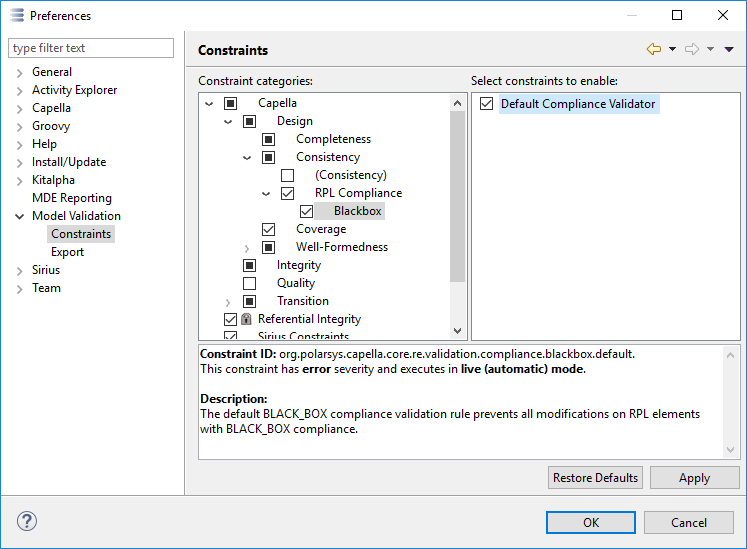
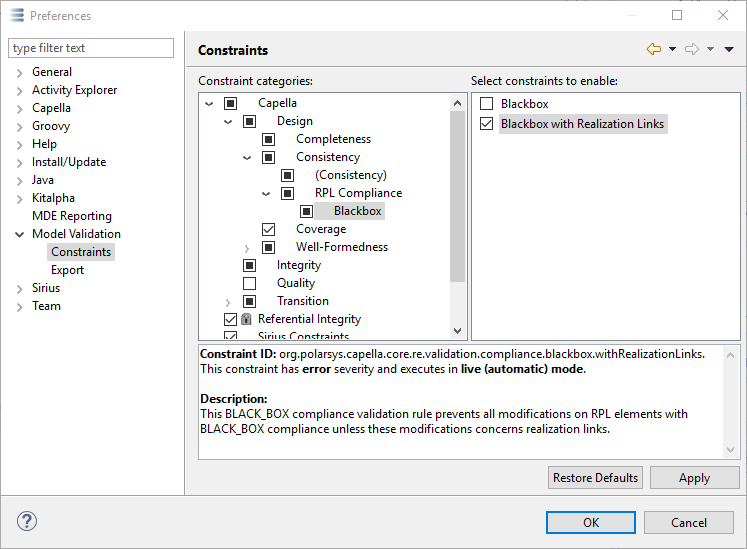
[1743] A Blackbox validation rule which allows adding realization links
This adds a second live validation rule for BlackBox REC/RPL compliance
which permits addition of realization links on RPL elements.

diff --git a/doc/plugins/org.polarsys.capella.re.doc/html/08. Replicable Element (REC-RPL)/8.5. RPL Validation.html b/doc/plugins/org.polarsys.capella.re.doc/html/08. Replicable Element (REC-RPL)/8.5. RPL Validation.html
@@ -23,11 +23,11 @@
 		<ul>
 			<li>Inheritance: Any element can be added in the RPL, including new 	Interfaces, ports or functions</li>
 		</ul>
-		<p>Capella currently provides a live validation rule for RPL with Blackbox compliance. The rule is deactivated by default. To enable live validation of RPL with Blackbox compliance, activate the rule in the Capella Preferences:</p>
+		<p>Capella currently provides two different live validation rules for RPL with Blackbox compliance. One rule prevents all modifications on the RPL, the other rule prevents all modifications, unless these modifications are concerning realization links. Both rules are deactivated by default. At most one compliance validation rule per compliancy definition should be active at any time. To enable live validation of RPL with Blackbox compliance, activate one of the two provided rules in the Capella Preferences:</p>
 		<p>
 			<img height="549" width="747" border="0" src="Images/8.5.enable_blackbox_rule.png"/>
 		</p>
-		<p>If the Blackbox validation rule is active, live validation will occur on all RPL which have the 'Enfore RPL Compliance on the Fly' flag checked in its properties. This flag makes it possible to enable validation for specific RPL only:</p>
+		<p>If a Blackbox validation rule is active, live validation will occur on all RPL which have the 'Enfore RPL Compliance on the Fly' flag checked in its properties. This flag makes it possible to enable validation for specific RPL only:</p>
 		<p>
 			<img height="368" width="495" border="0" src="Images/8.5.rplproperties.png"/>
 		</p>

diff --git a/core/plugins/org.polarsys.capella.core.re.validation/src/org/polarsys/capella/core/re/validation/design/consistency/AbstractComplianceConstraint.java b/core/plugins/org.polarsys.capella.core.re.validation/src/org/polarsys/capella/core/re/validation/design/consistency/AbstractComplianceConstraint.java
@@ -233,27 +233,29 @@ public abstract class AbstractComplianceConstraint extends AbstractValidationRul
             if (vc.getFeature().isMany()) {
 
               if (add && !((Collection<?>)ctx.getRecElement().eGet(vc.getFeature())).contains(vRec)){
-                return ctx.createFailureStatus();
+                return validateAddReference(ctx, vRpl, vRec);
               }
 
               if (remove && ((Collection<?>)ctx.getRecElement().eGet(vc.getFeature())).contains(vRec)){
-                return ctx.createFailureStatus();
+                return validateRemoveReference(ctx, vRpl, vRec);
               }
 
             } else {
 
-              if ((ctx.getRecElement().eGet(vc.getFeature()) != vRec)) {
-                return ctx.createFailureStatus();
+              if (ctx.getRecElement().eGet(vc.getFeature()) != vRec) {
+                validateDifferentReference(ctx, vRpl, vRec);
               }
 
             }
           } else {
 
             // the added/removed vRpl is part of this context rpl, but we cannot find a corresponding vRec
+            if (add ) {
+              return validateAddReference(ctx, vRpl, vRec);
+            }
 
-            // adding such an element is not allowed, removing is
-            if (add) {
-              return ctx.createFailureStatus();
+            if (set) {
+              return validateDifferentReference(ctx, vRpl, vRec);
             }
 
           }
@@ -262,9 +264,7 @@ public abstract class AbstractComplianceConstraint extends AbstractValidationRul
 
           // setXXX(null), allowed, but only if the rec element has it also set to null
           if (ctx.getRecElement().eGet(vc.getFeature()) != null) {
-
-            return ctx.createFailureStatus();
-
+            validateDifferentReference(ctx, null, null);
           }
 
         }
@@ -274,7 +274,61 @@ public abstract class AbstractComplianceConstraint extends AbstractValidationRul
     return Status.OK_STATUS;
   }
 
+  /**
+   * Handle the case where an object <code>vRpl</code> was added to a multi-valued reference of a RPL element,
+   * but the corresponding object <code>vRec</code> is <b>not</b> referenced by the complementing REC element.
+   * <p>
+   * If the added object <code>vRpl</code> is also part of the RPL, the corresponding object
+   * <code>vRec</code> is its complementing element in the REC. If the complementing object cannot be found
+   * <code>vRec</code> will be null.
+   * Otherwise vRpl and vRec are the same object.
+   * </p>
+   * @param ctx the current context
+   * @param vRpl the value that was added to a many-valued reference on the rpl element. Never null.
+   * @param expected the value that should be referenced by the complementing rec element but isn't. Can be null as described above.
+   * @return
+   */
+  protected abstract IStatus validateAddReference(ComplianceValidationContext ctx, Object vRpl, Object expected);
 
+  /**
+   * Handle the case where an object <code>vRpl</code> was removed from a many-valued reference of a RPL element,
+   * but the corresponding object <code>vRec</code> is still referenced by the complementing REC element.
+   * <p>
+   * If the removed object <code>vRpl</code> is also part of the RPL, the corresponding object
+   * <code>vRec</code> is its complementing element in the REC.
+   * <code>vRec</code> will be null.
+   * Otherwise vRpl and vRec are the same object.
+   * </p>
+   * @param ctx the current context
+   * @param vRpl the value that was removed from a many-valued reference on the rpl element. Never null.
+   * @param vRec the value that is still referenced by the complementing rec element but shouldn't be. Never null.
+   * @return
+   */
+  protected abstract IStatus validateRemoveReference(ComplianceValidationContext ctx, Object vRpl, Object vRec);
+
+  /**
+   * Handle the case where an single-valued reference of an RPL element was set to <code>vRpl</code>,
+   * but the corresponding REC element still has it set to something that is not the expected <code>vRec</code>.
+   * <p>
+   * If the set object <code>vRpl</code> is also part of the RPL, the corresponding object
+   * <code>vRec</code> is its complementing element in the REC. If the complementing object cannot be found
+   * <code>vRec</code> will be null.
+   * Otherwise vRpl and vRec are the same object.
+   * </p>
+   * @param ctx the current context
+   * @param vRpl the value that was removed from a many-valued reference on the rpl element. May be null, and in that case vRec is also null.
+   * @param vRec the value that is still referenced by the complementing rec element but shouldn't be. Can be null as described above.
+   * @return
+   */
+  protected abstract IStatus validateDifferentReference(ComplianceValidationContext ctx, Object vRpl, Object vRec);
+
+  /**
+   * Validate a change of an attribute of a RPL element. This default implementation returns an Error status
+   * if the corresponding REC element's attribute isn't equal to the RPL element attribute according to
+   * EcoreUtil.EqualityHelper
+   * @param ctx
+   * @return
+   */
   protected IStatus validateAttribute(ComplianceValidationContext ctx) {
     if (ctx.getValidationContext().getFeature() == ModellingcorePackage.Literals.ABSTRACT_NAMED_ELEMENT__NAME) {
       return validateName(ctx);
@@ -284,6 +338,11 @@ public abstract class AbstractComplianceConstraint extends AbstractValidationRul
     return Status.OK_STATUS;
   }
 
+  /**
+   * Validate a name change of a RPL element. This is a special case because of REC/RPL suffixes.
+   * @param ctx
+   * @return
+   */
   protected IStatus validateName(ComplianceValidationContext ctx) {
     String rplName = ((AbstractNamedElement)ctx.getRplElement()).getName();
     String recName = ((AbstractNamedElement)ctx.getRecElement()).getName();

diff --git a/core/plugins/org.polarsys.capella.core.re.validation/src/org/polarsys/capella/core/re/validation/design/consistency/BlackBoxComplianceWithRealizationLinks.java b/core/plugins/org.polarsys.capella.core.re.validation/src/org/polarsys/capella/core/re/validation/design/consistency/BlackBoxComplianceWithRealizationLinks.java
@@ -1,0 +1,52 @@
+/*******************************************************************************
+ * Copyright (c) 2017 THALES GLOBAL SERVICES.
+ * All rights reserved. This program and the accompanying materials
+ * are made available under the terms of the Eclipse Public License v1.0
+ * which accompanies this distribution, and is available at
+ * http://www.eclipse.org/legal/epl-v10.html
+ *   
+ * Contributors:
+ *    Thales - initial API and implementation
+ *******************************************************************************/
+package org.polarsys.capella.core.re.validation.design.consistency;
+
+import org.eclipse.emf.ecore.EStructuralFeature;
+import org.polarsys.capella.core.data.capellacommon.CapellacommonPackage;
+import org.polarsys.capella.core.data.cs.CsPackage;
+import org.polarsys.capella.core.data.fa.FaPackage;
+import org.polarsys.capella.core.data.information.InformationPackage;
+import org.polarsys.capella.core.data.information.datatype.DatatypePackage;
+import org.polarsys.capella.core.data.interaction.InteractionPackage;
+
+import com.google.common.collect.Sets;
+
+/**
+ * This is a black box compliance, but allows adding realisation links to RPL elements.
+ */
+public class BlackBoxComplianceWithRealizationLinks extends BlackBoxComplianceWithExceptions {
+
+  public BlackBoxComplianceWithRealizationLinks() {
+    super(Sets.<EStructuralFeature>newHashSet(
+        InteractionPackage.Literals.ABSTRACT_CAPABILITY__OWNED_ABSTRACT_CAPABILITY_REALIZATIONS,
+        FaPackage.Literals.ABSTRACT_FUNCTION__OWNED_FUNCTION_REALIZATIONS,
+        CapellacommonPackage.Literals.ABSTRACT_STATE__OWNED_ABSTRACT_STATE_REALIZATIONS,
+        InformationPackage.Literals.OPERATION__OWNED_EXCHANGE_ITEM_REALIZATIONS,
+        FaPackage.Literals.FUNCTION_PKG__OWNED_EXCHANGE_SPECIFICATION_REALIZATIONS,
+        FaPackage.Literals.FUNCTIONAL_CHAIN__OWNED_FUNCTIONAL_CHAIN_REALIZATIONS,
+        FaPackage.Literals.FUNCTIONAL_EXCHANGE__OWNED_FUNCTIONAL_EXCHANGE_REALIZATIONS,
+        InformationPackage.Literals.CLASS__OWNED_INFORMATION_REALIZATIONS,
+        InformationPackage.Literals.EXCHANGE_ITEM__OWNED_INFORMATION_REALIZATIONS,
+        DatatypePackage.Literals.DATA_TYPE__OWNED_INFORMATION_REALIZATIONS,
+        CsPackage.Literals.PHYSICAL_LINK__OWNED_PHYSICAL_LINK_REALIZATIONS,
+        CsPackage.Literals.PHYSICAL_PATH__OWNED_PHYSICAL_PATH_REALIZATIONS,
+        CsPackage.Literals.PHYSICAL_PORT__OWNED_PHYSICAL_PORT_REALIZATIONS,
+        InformationPackage.Literals.PORT__OWNED_PORT_REALIZATIONS,
+        InteractionPackage.Literals.SCENARIO__OWNED_SCENARIO_REALIZATION,
+        CapellacommonPackage.Literals.STATE_EVENT__OWNED_STATE_EVENT_REALIZATIONS,
+        CapellacommonPackage.Literals.STATE_TRANSITION__OWNED_STATE_TRANSITION_REALIZATIONS
+    ));
+  }
+
+
+
+}

diff --git a/core/plugins/org.polarsys.capella.core.re.validation/src/org/polarsys/capella/core/re/validation/design/consistency/BlackBoxComplianceWithExceptions.java b/core/plugins/org.polarsys.capella.core.re.validation/src/org/polarsys/capella/core/re/validation/design/consistency/BlackBoxComplianceWithExceptions.java
@@ -1,0 +1,70 @@
+/*******************************************************************************
+ * Copyright (c) 2017 THALES GLOBAL SERVICES.
+ * All rights reserved. This program and the accompanying materials
+ * are made available under the terms of the Eclipse Public License v1.0
+ * which accompanies this distribution, and is available at
+ * http://www.eclipse.org/legal/epl-v10.html
+ *   
+ * Contributors:
+ *    Thales - initial API and implementation
+ *******************************************************************************/
+package org.polarsys.capella.core.re.validation.design.consistency;
+
+import java.util.Collection;
+
+import org.eclipse.core.runtime.IStatus;
+import org.eclipse.core.runtime.Status;
+import org.eclipse.emf.ecore.EStructuralFeature;
+import org.polarsys.capella.common.re.CompliancyDefinition;
+import org.polarsys.capella.common.re.handlers.replicable.ReplicableElementHandler;
+
+import com.google.common.base.Predicate;
+
+/**
+ * A blackbox compliance where selected features can be marked as modifiable.
+ */
+public class BlackBoxComplianceWithExceptions extends AbstractComplianceConstraint {
+
+  private final Collection<EStructuralFeature> allowed;
+
+  public BlackBoxComplianceWithExceptions(Predicate<CompliancyDefinition> compliancyDefinitionPredicate, Collection<EStructuralFeature> allowed) {
+    super(compliancyDefinitionPredicate);
+    this.allowed = allowed;
+  }
+
+  public BlackBoxComplianceWithExceptions(Collection<EStructuralFeature> allowed) {
+    this(new Predicate<CompliancyDefinition>() {
+        @Override
+        public boolean apply(CompliancyDefinition input) {
+          return ReplicableElementHandler.COMPLIANCY_BLACK_BOX_NAME.equals(input.getName());
+        }
+      }, allowed);
+  }
+
+  @Override
+  protected IStatus validateAddReference(ComplianceValidationContext ctx, Object vRpl, Object expected) {
+    if (allowed.contains(ctx.getValidationContext().getFeature())){
+        return Status.OK_STATUS;
+    }
+    return ctx.createFailureStatus();
+  }
+
+  @Override
+  protected IStatus validateRemoveReference(ComplianceValidationContext ctx, Object vRpl, Object vRec) {
+    if (allowed.contains(ctx.getValidationContext().getFeature())) {
+        return Status.OK_STATUS;
+    }
+    return ctx.createFailureStatus();
+  }
+
+  @Override
+  protected IStatus validateDifferentReference(ComplianceValidationContext ctx, Object vRpl, Object vRec) {
+    if (allowed.contains(ctx.getValidationContext().getFeature())) {
+      return Status.OK_STATUS;
+    }
+    return ctx.createFailureStatus();
+  }
+
+
+
+}

diff --git a/core/plugins/org.polarsys.capella.core.re.validation/src/org/polarsys/capella/core/re/validation/design/consistency/DefaultBlackBoxCompliance.java b/core/plugins/org.polarsys.capella.core.re.validation/src/org/polarsys/capella/core/re/validation/design/consistency/DefaultBlackBoxCompliance.java
@@ -10,19 +10,17 @@
  *******************************************************************************/
 package org.polarsys.capella.core.re.validation.design.consistency;
 
-import org.polarsys.capella.common.re.CompliancyDefinition;
-import org.polarsys.capella.common.re.handlers.replicable.ReplicableElementHandler;
+import java.util.Collections;
 
-import com.google.common.base.Predicate;
+import org.eclipse.emf.ecore.EStructuralFeature;
 
-public class DefaultBlackBoxCompliance extends AbstractComplianceConstraint {
+/**
+ * A blackbox where nothing can be modified.
+ */
+public class DefaultBlackBoxCompliance extends BlackBoxComplianceWithExceptions {
 
   public DefaultBlackBoxCompliance() {
-    super(new Predicate<CompliancyDefinition>() {
-        @Override
-        public boolean apply(CompliancyDefinition input) {
-          return ReplicableElementHandler.COMPLIANCY_BLACK_BOX_NAME.equals(input.getName());
-        }
-      });
+    super(Collections.<EStructuralFeature>emptyList());
   };
+
 }
